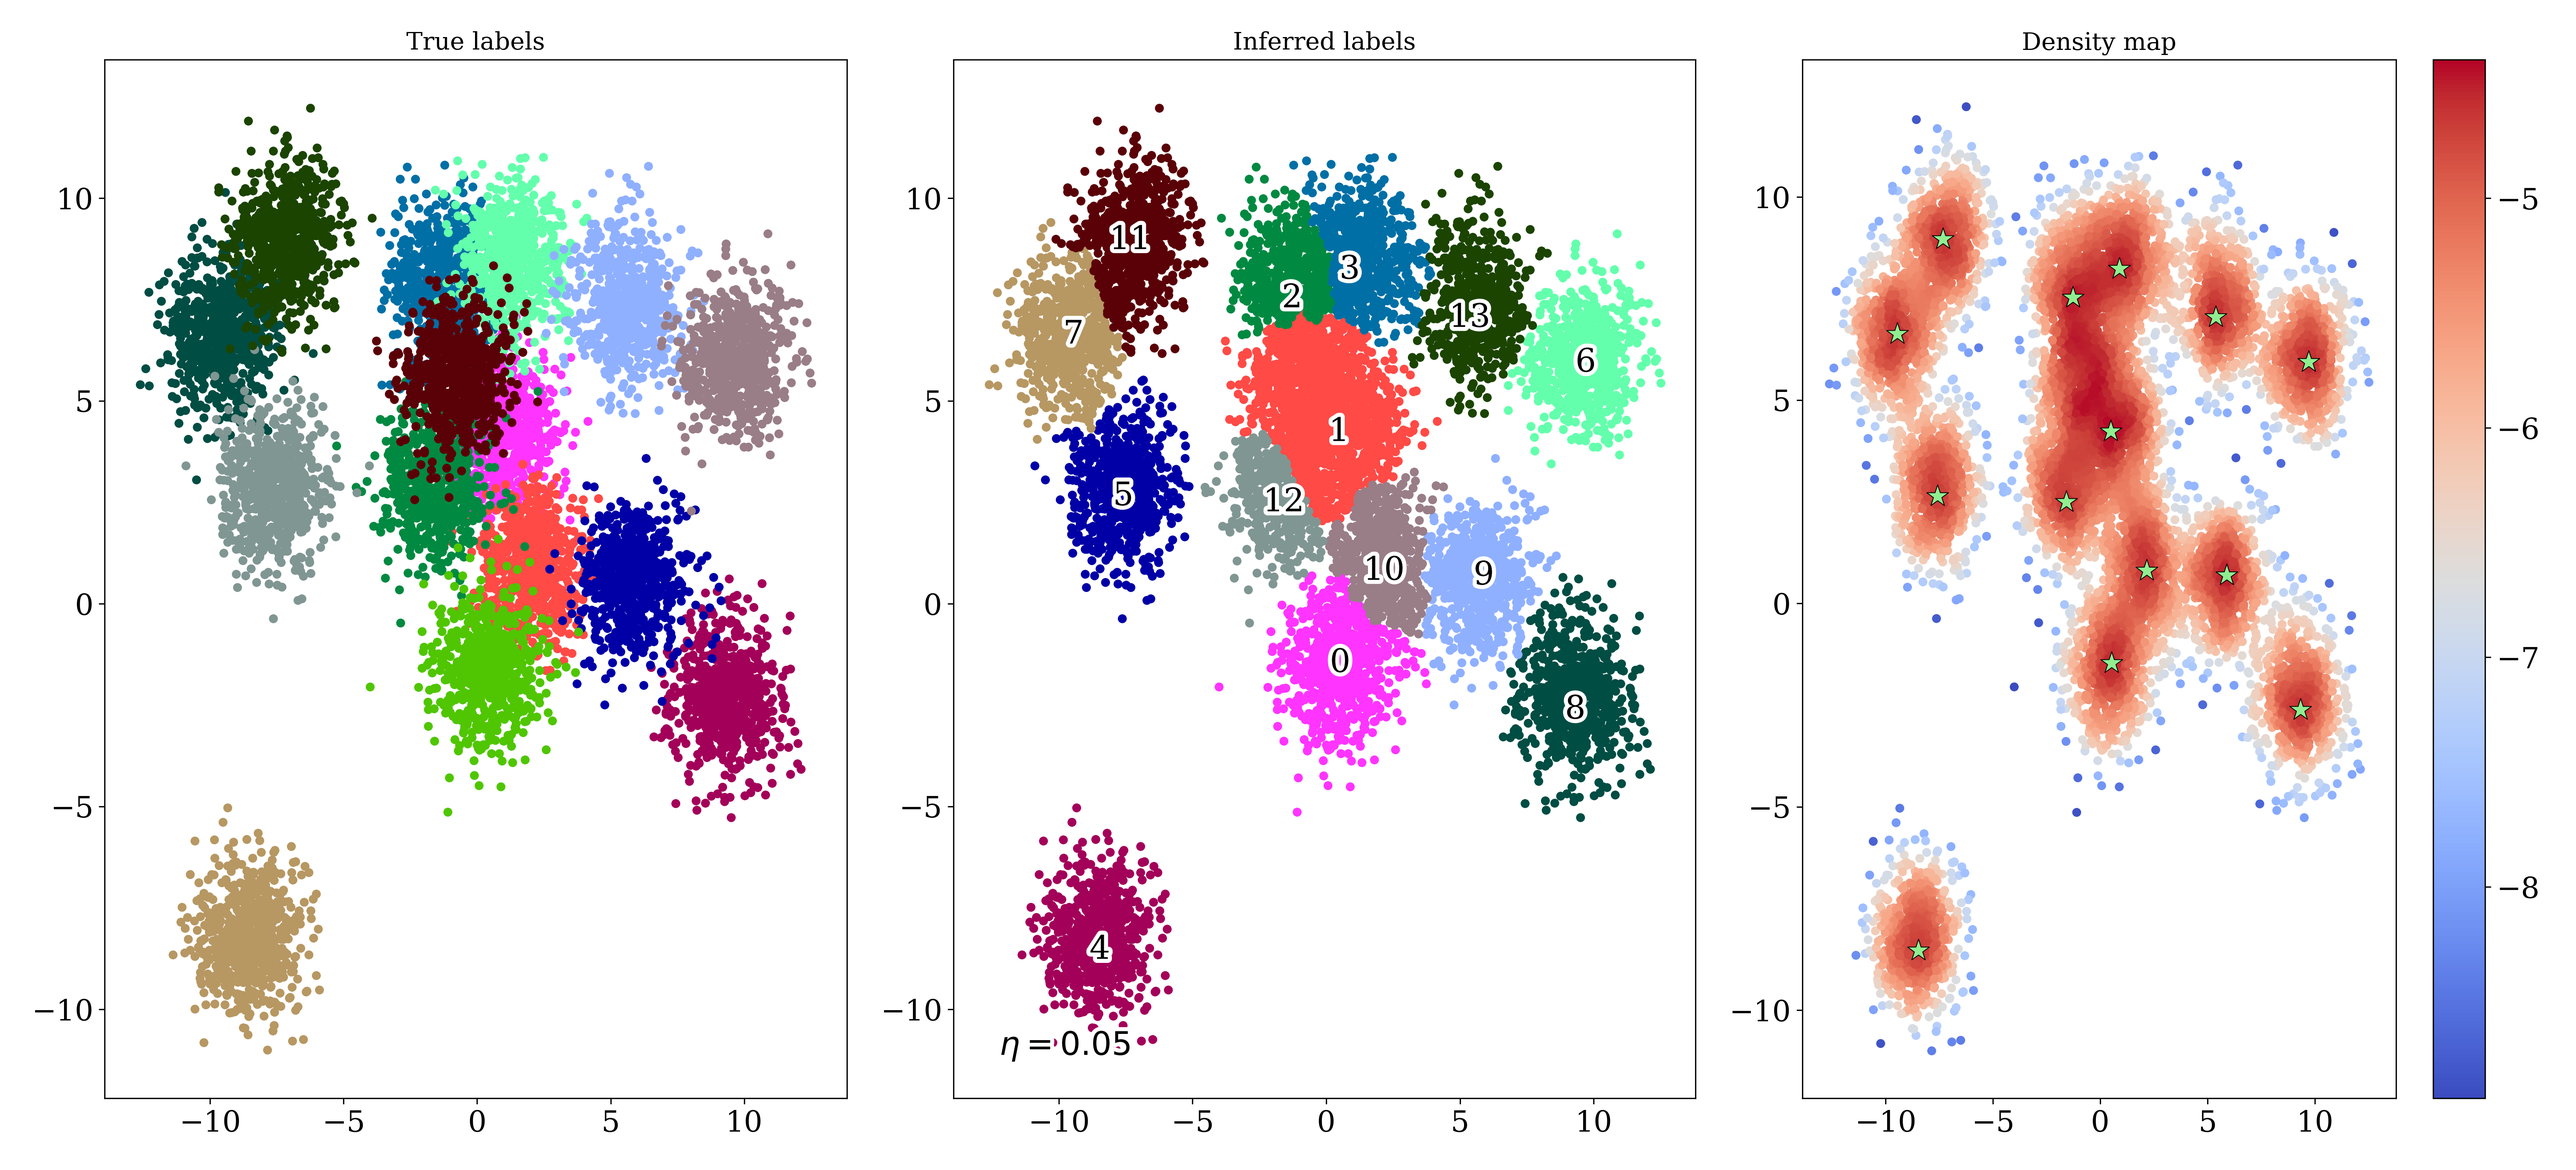
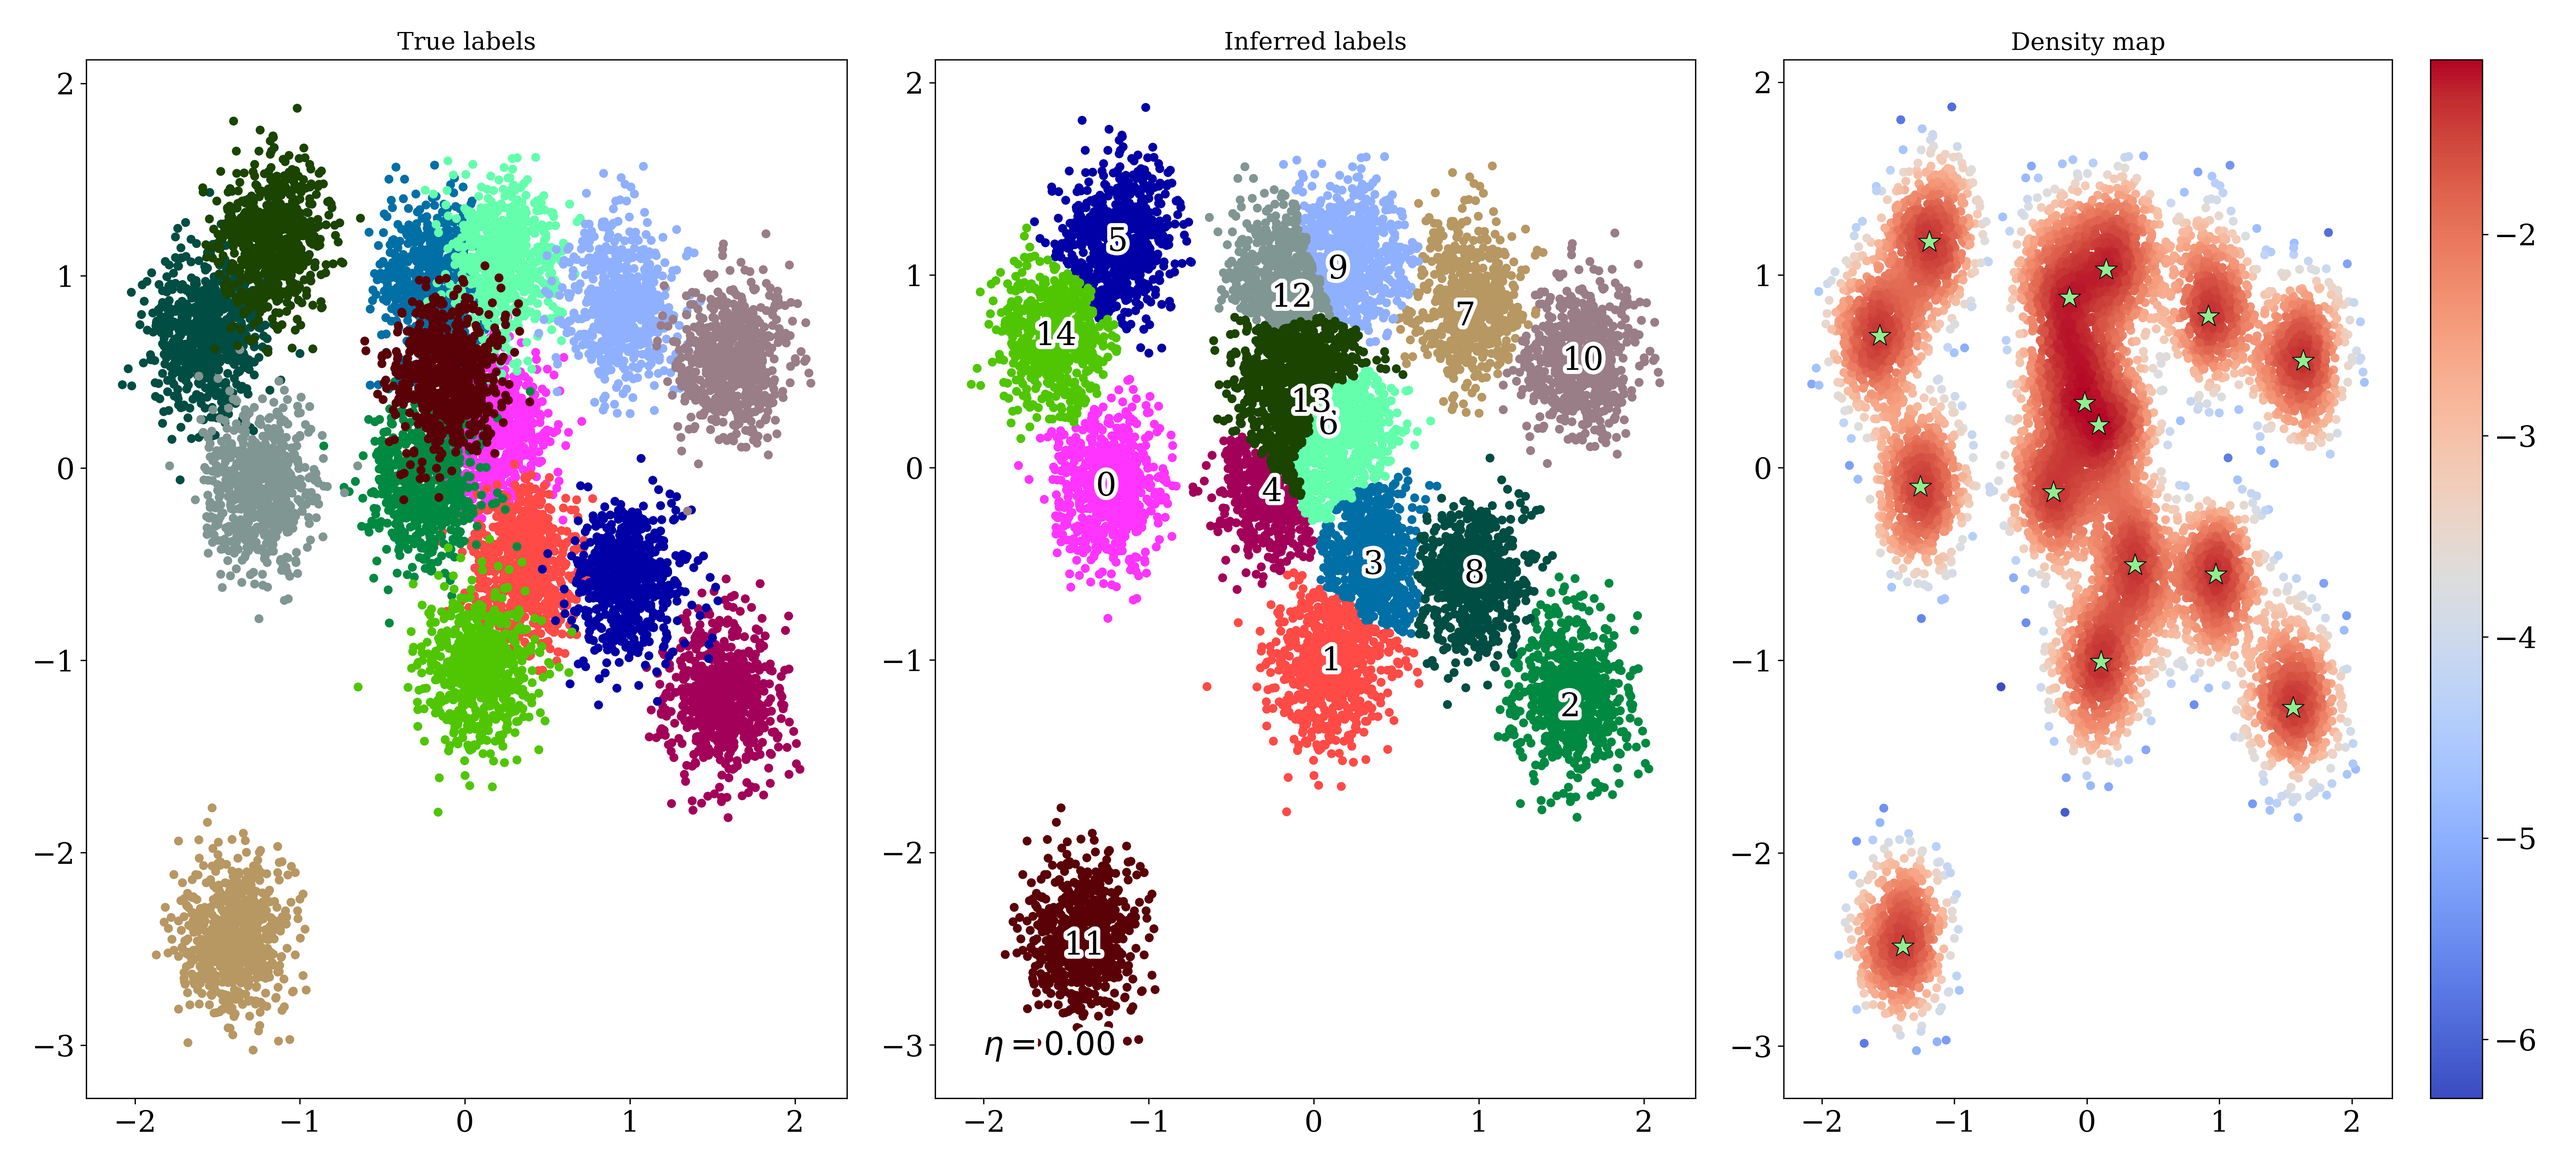
testing density estimates

diff --git a/fdc/fdc.py b/fdc/fdc.py
@@ -119,9 +119,12 @@ class FDC:
 
         self.X = X  # shallow copy
         n_sample = X.shape[0]
+        if n_sample < 10:
+            assert False, "Too few samples for computing densities !"
 
         if self.nh_size is 'auto':
-            self.nh_size = max([int(n_sample/10000.*100),10])
+            self.nh_size = max([int(25*np.log10(n_sample)), 10])
+
         if self.search_size > self.nh_size:
             self.search_size = self.nh_size
         if self.verbose == 0:
@@ -177,29 +180,10 @@ class FDC:
         self.__dict__.update(pickle.load(open(name,'rb')).__dict__)
         return self
 
-    #@profile
-    def check_cluster_stability_fast(self, X, eta = None): # given 
-        if self.verbose == 0:
-            blockPrint()
-
-        if eta is None:
-            eta =  self.eta
-
-        while True: # iterates untill number of cluster does no change ... 
-
-            self.cluster_label = assign_cluster(self.idx_centers_unmerged, self.nn_delta, self.density_graph) # first approximation of assignments 
-            self.idx_centers, n_false_pos = check_cluster_stability(self, X, eta)
-            self.idx_centers_unmerged = self.idx_centers
-
-            if n_false_pos == 0:
-                print("      # of stable clusters with noise %.6f : %i" % (eta, self.idx_centers.shape[0]))
-                break
-                
-        enablePrint()
-
    # @profile
     def fit_density(self, X):
-        # nearest neighbors class
+
+        # nearest neighbors class        
         self.nbrs = NearestNeighbors(n_neighbors = self.nh_size, algorithm='kd_tree').fit(X)  
 
         # get k-NN
@@ -320,6 +304,25 @@ class FDC:
 
         return self
 
+    def check_cluster_stability_fast(self, X, eta = None): # given 
+        if self.verbose == 0:
+            blockPrint()
+
+        if eta is None:
+            eta =  self.eta
+
+        while True: # iterates untill number of cluster does no change ... 
+
+            self.cluster_label = assign_cluster(self.idx_centers_unmerged, self.nn_delta, self.density_graph) # first approximation of assignments 
+            self.idx_centers, n_false_pos = check_cluster_stability(self, X, eta)
+            self.idx_centers_unmerged = self.idx_centers
+
+            if n_false_pos == 0:
+                print("      # of stable clusters with noise %.6f : %i" % (eta, self.idx_centers.shape[0]))
+                break
+                
+        enablePrint()
+
     def get_cluster_info(self, eta = None):
         """ Returns (cluster_label, idx_center) """
 
@@ -364,6 +367,7 @@ class FDC:
 
         # ideally here we cythonize what's below... this is highly ineficient ...
         while True:
+
             update = False
             leaves=np.hstack(new_leaves)
             new_leaves=[]
@@ -374,8 +378,10 @@ class FDC:
 
             for i in range(1, self.search_size):
                 res = nn_leaf[is_NH[nn_leaf[:,i]] == 0, i]
-                pos = rho[res] > eta
-                if np.count_nonzero(pos) > 0: update = True;
+                pos = np.where(rho[res] > eta)[0]
+
+                if len(pos) > 0: update=True
+                
                 is_NH[res[pos]] = 1
                 new_leaves.append(res[pos])
 

diff --git a/example/example.py b/example/example.py
@@ -9,6 +9,8 @@ Created on Feb 1, 2017
 
 from fdc import FDC
 from sklearn.datasets import make_blobs
+from sklearn.preprocessing import StandardScaler
+from sklearn.metrics import normalized_mutual_info_score as nmi
 from fdc import plotting
 import pickle
 import numpy as np
@@ -20,14 +22,15 @@ np.random.seed(0)
 print("------> Example with %i true cluster centers <-------"%n_true_center)
 
 X, y = make_blobs(10000, 2, n_true_center) # Generating random gaussian mixture
+X = StandardScaler().fit_transform(X) # always normalize your data :) 
 
-model = FDC(eta=0.05, test_ratio_size=0.1)
-
-#@profile
-#np.sum(np.arange(0,1000))
+# set eta=0.0 if you have excellent density profile fit (lots of data say)
+model = FDC(eta=0.0)
 
 model.fit(X) # performing the clustering
 
+print("Normalized mutual information = %.4f"%nmi(y, model.cluster_label))
 plotting.set_nice_font() # nicer plotting font !
-
 plotting.summary_model(model, ytrue=y, show=True, savefile="result.png")
+
+

diff --git a/fdc/density_estimation.py b/fdc/density_estimation.py
@@ -114,7 +114,8 @@ class KDE():
             assert abs(h_optimal - hmin) > 1e-4, "Lower boundary reached for bandwidth"
 
         return h_optimal
-
+    
+    
     def log_likelihood_test_set(self, bandwidth, X_train, X_test):
         """Fit the kde model on the training set given some bandwidth and evaluates the log-likelihood of the test set
         """
